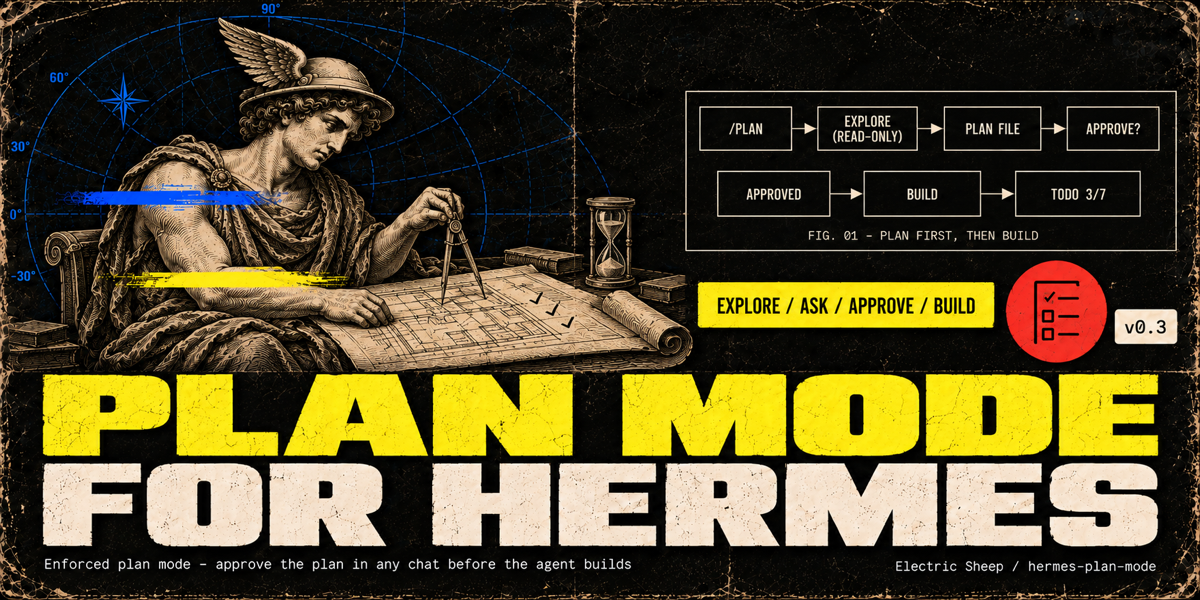
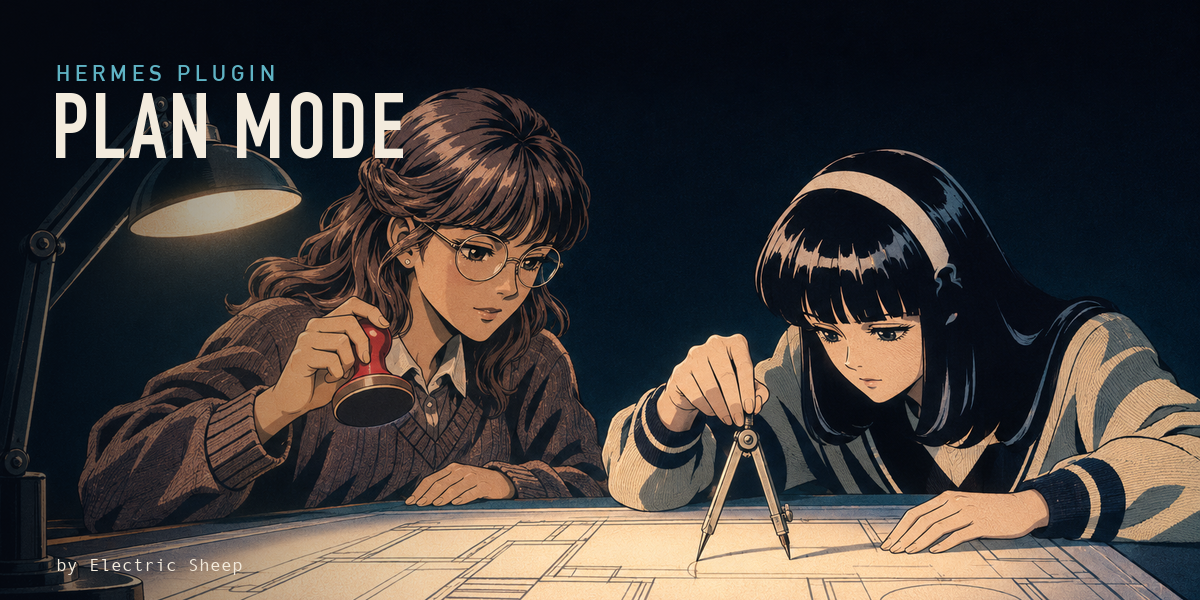
Release 1.1.0 (#75)
* Release 1.1.0: Hermes 0.22/0.23 support, cleaner finish on chat

* README: the held-stream opt-out also needs plan_once out of custom lever lists

---------

diff --git a/README.md b/README.md
@@ -257,7 +257,11 @@ the rest.
 - **Plan once (TUI, Desktop and `hermes serve`, since 0.4.1).** The agent writes the plan once, in its reply between a
   `<proposed_plan>` line and a `</proposed_plan>` line, and the plugin saves that text as the plan file. This needs
   Hermes 0.21.5 (v2026.9.24) or later with interim messages shown (and, for Codex models, commentary shown). When those
-  conditions are not met, and always on the CLI and chat platforms, the agent writes the plan file as before. In round 8 (2026-10-11, plugin 0.4.1,
+  conditions are not met, and always on the CLI and chat platforms, the agent writes the plan file as before. Plan once
+  saves the reply text Hermes hands plugins after each model call. If another plugin holds the stream to withhold
+  commentary (`transform_llm_output` with `hold_stream`), that text can include commentary it kept off screen; use
+  `plan_profile: classic` alongside such a plugin, and leave `plan_once` (and `all`) out of any custom `levers` or
+  `PLAN_MODE_LEVERS` list. In round 8 (2026-10-11, plugin 0.4.1,
   gpt-6.1-sol medium, eight tasks with three runs each per arm, `plan_once` vs the 0.4.0 default)
   it was 22% faster (wall time 0.78×, 95% CI 0.73–0.85) with the same test results and judge scores.
 - **Approval card (since 0.6.0).** After showing the complete plan, the agent submits and plan mode asks one
@@ -733,8 +737,9 @@ Claude Code (Opus 5.5, a different model) is shown for context only:
 - **v0.3.0 features** use only the Hermes capability they need. Where the approval directive or the approval hooks
   are missing, submit asks through `clarify`, with typed `/planmode approve` as the fallback if clarify is unavailable. The system-prompt hint is skipped where the host
   has no prompt-section API, and typed approval skips `inject_message` where the host has none.
-- Tested in CI against Hermes `v2026.9.14`, `v2026.9.21`, `v2026.9.24` (Python 3.11), `v0.21.6` and a
-  pinned `main` (Python 3.14, the version for which 0.21.6 and `main` declare their runtime dependencies).
+- Tested in CI against Hermes `v2026.9.14`, `v2026.9.21`, `v2026.9.24` (Python 3.11), `v0.21.6`, `v0.22.7`,
+  `v0.23.0` and a pinned `main` (Python 3.14, the version for which 0.21.6 and newer declare their runtime
+  dependencies). From 0.22, CI installs Hermes with `uv sync --locked`, as Hermes' own CI does.
 
 ## How to test
 

diff --git a/CHANGELOG.md b/CHANGELOG.md
@@ -1,5 +1,19 @@
 # Changelog
 
+## 1.1.0 - 2026-11-08
+
+Support for Hermes 0.22 and 0.23, and a cleaner finish on chat platforms.
+
+- **Tested on Hermes 0.22.7, 0.23.0 and current main** (CI installs each with `uv sync --locked`, as Hermes' own CI
+  does). On Hermes 0.22 and newer, the lean profile on TUI, Desktop and `hermes serve` saves the plan straight from
+  the agent's reply again (`plan_once`). Hermes renamed an internal helper the capture used, so plan-mode had been
+  falling back to asking the agent to write the plan to a file, which cost one extra round trip per plan. Approval was
+  not affected (#73).
+- **The reply that finishes a plan no longer says "Executing approved plan"** on Telegram and other chat platforms
+  (lean profile): an execution without a todo list ends with its turn, and that turn's reply now carries no footer
+  (#71, #74).
+- **`/planmode status` keeps plan files as text on chat platforms** instead of turning them into attachments (#71, #74).
+
 ## 1.0.0 - 2026-10-17
 
 1.0 is the same code as 0.6.8, with documentation that states what plan mode does and what was measured. It is a
